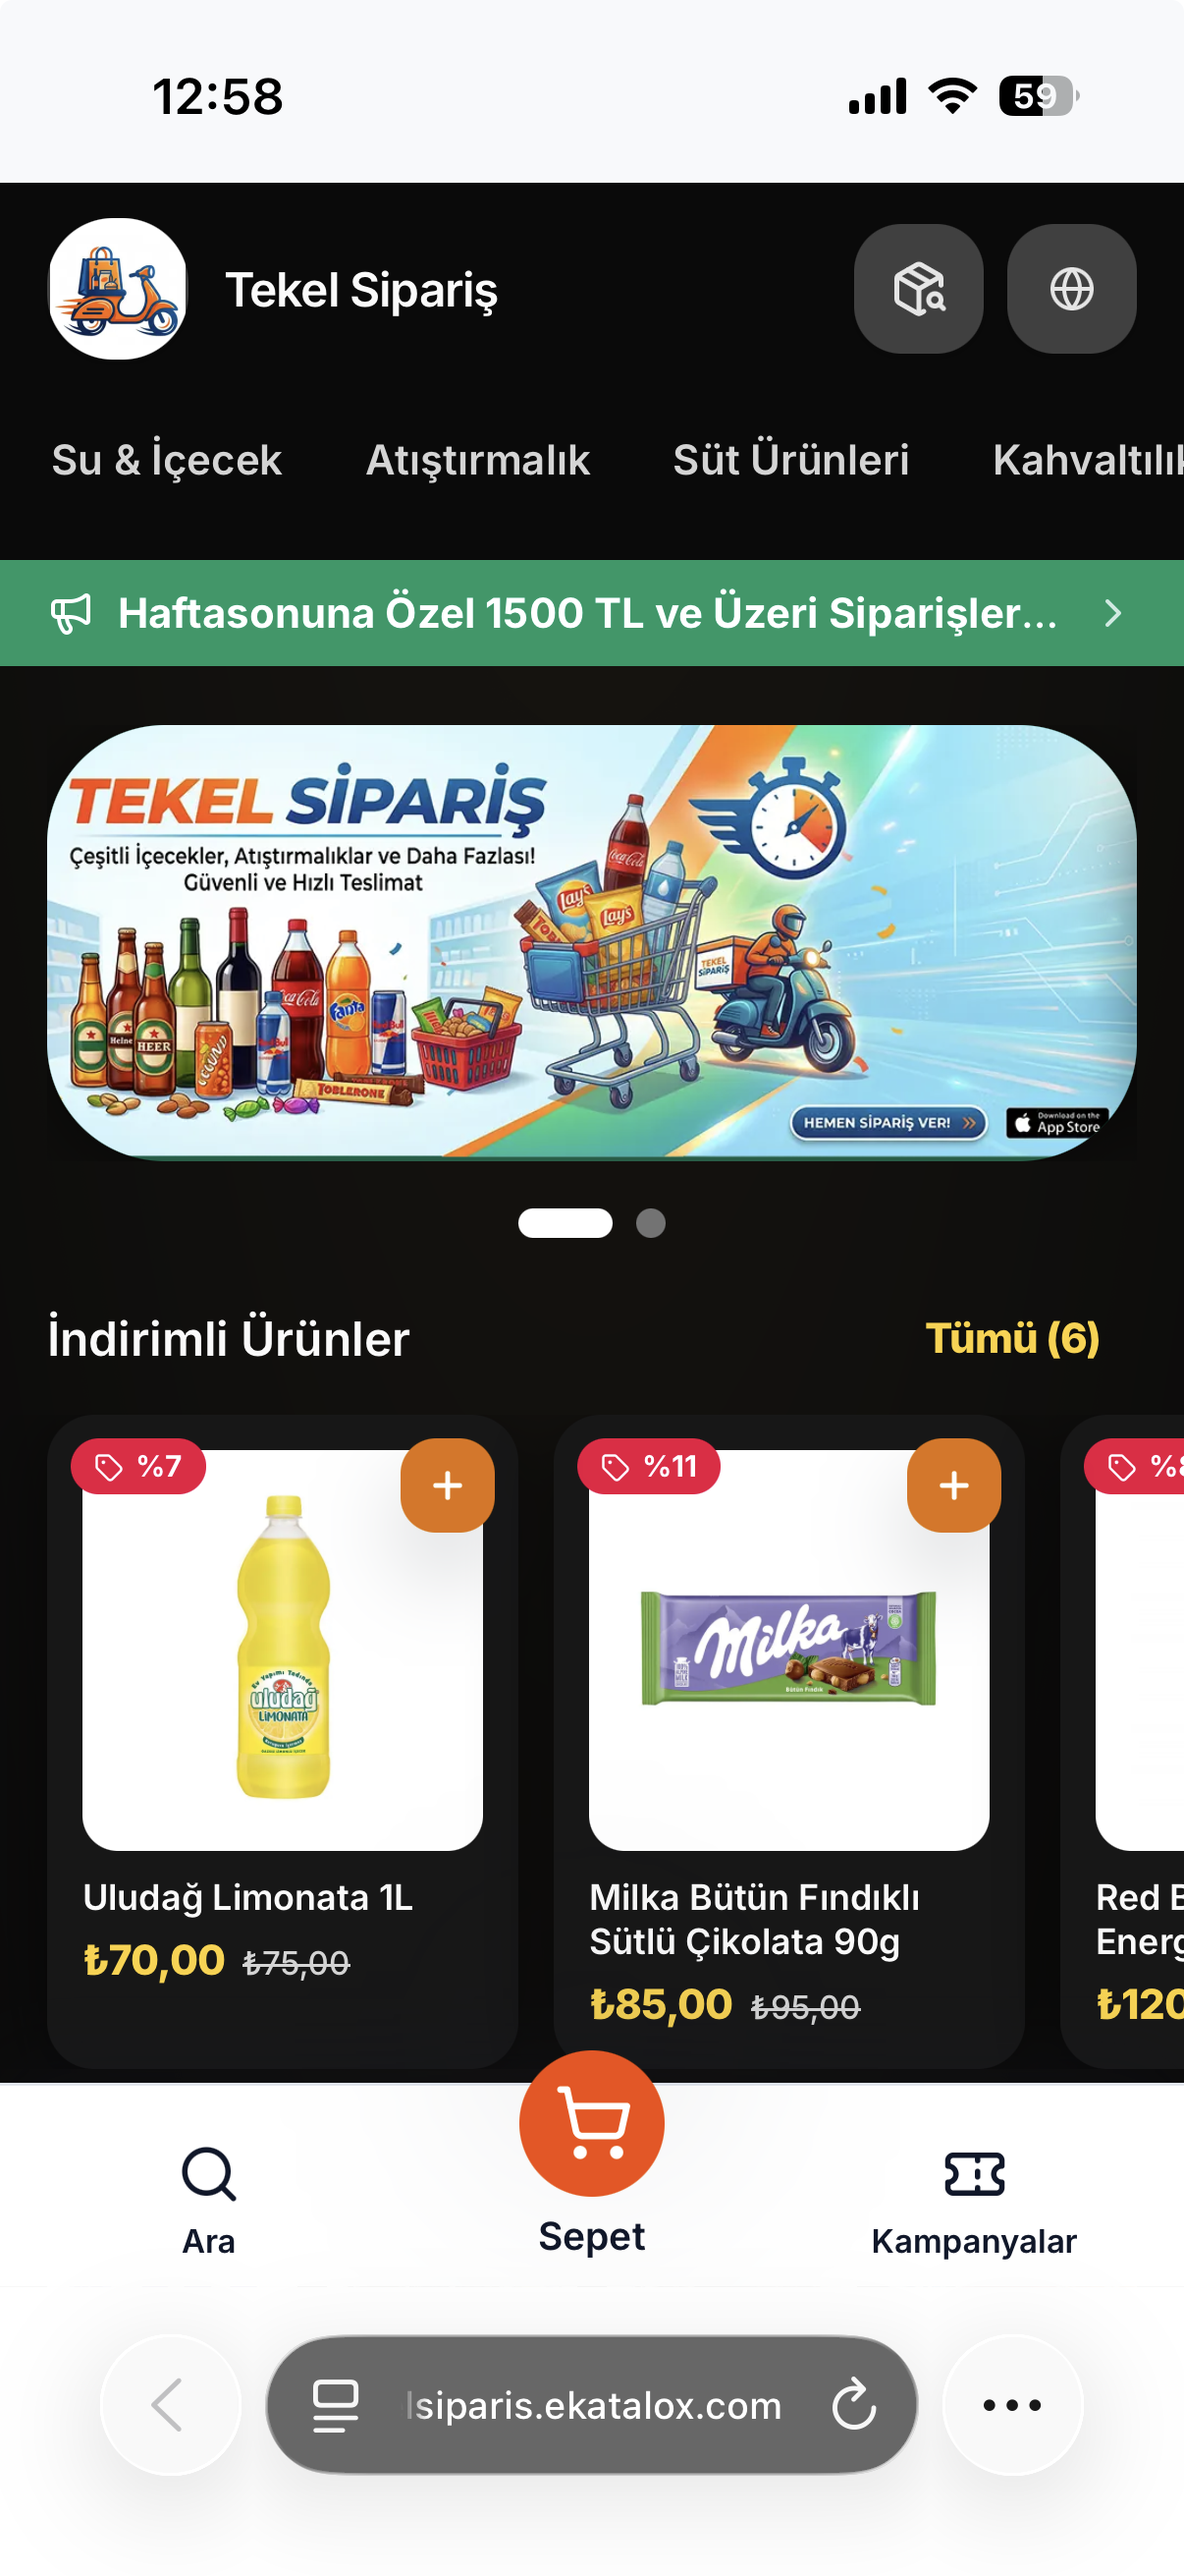
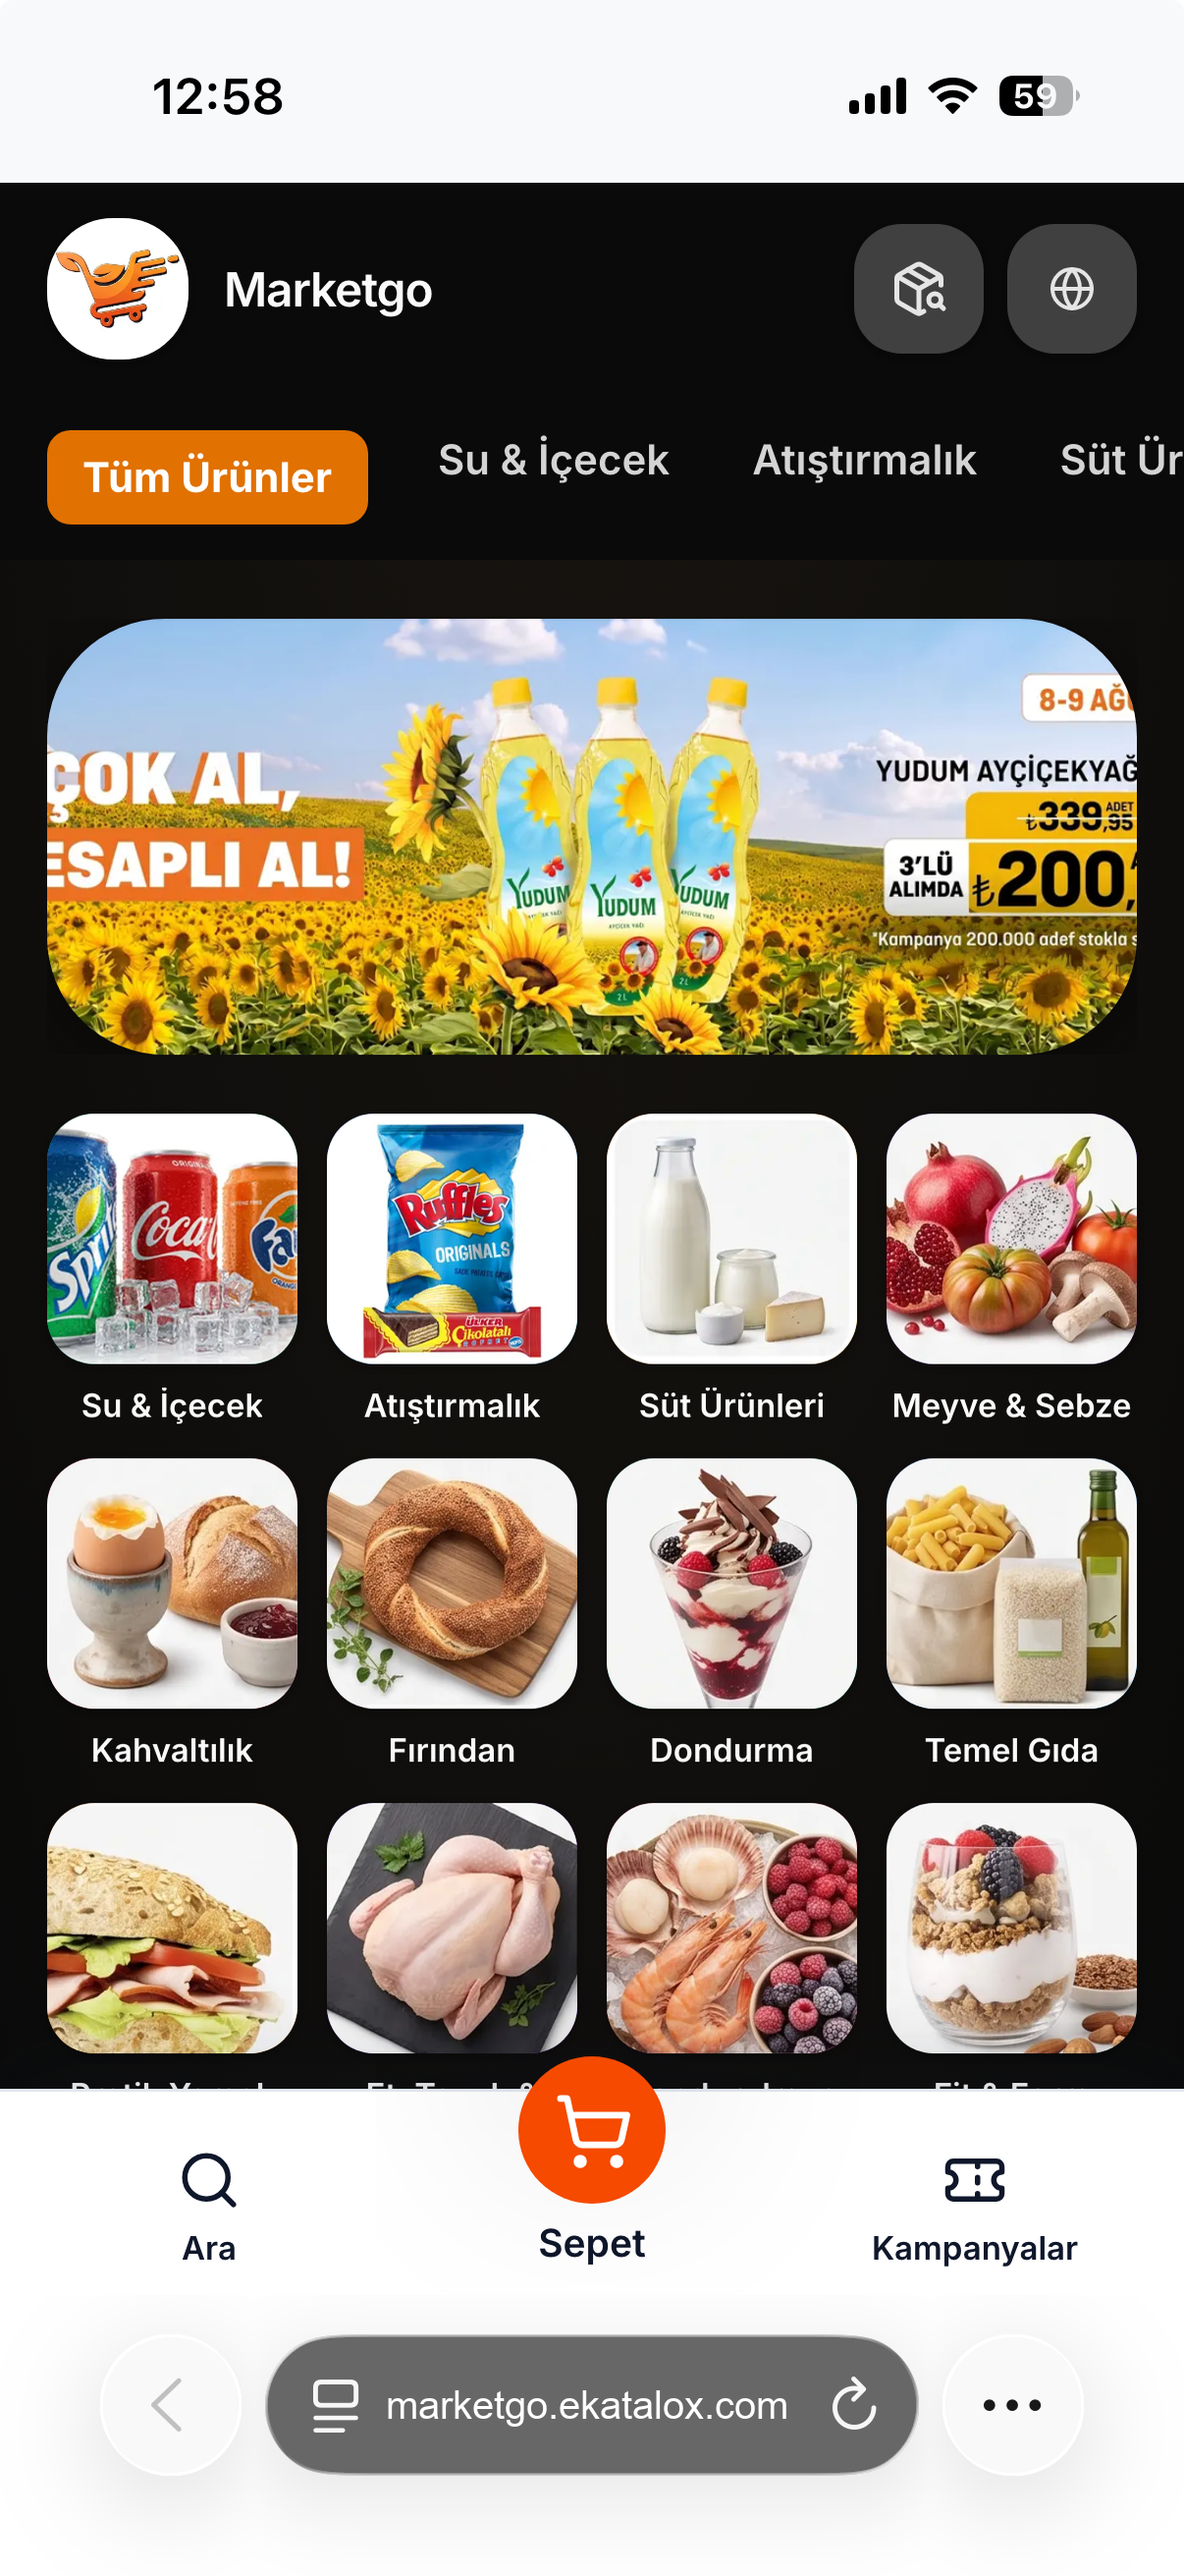
Ana sayfa: hero iPhone görseli ve demo mağaza bağlantısı marketgo'ya alındı
- public/site/demo-market-iphone.png: tekelsiparis yerine marketgo.ekatalox.com
  ana sayfasının iPhone ekran görüntüsü (durum ve Safari çubukları korundu)
- lib/marketing/site.ts: demoUrl -> https://marketgo.ekatalox.com
  ("Demo mağazayı aç" düğmeleri bu sabiti kullanıyor)

Claude-Session: https://claude.ai/code/session_01DKMovxUk6WPPgHxMJx2fkn

diff --git a/lib/marketing/site.ts b/lib/marketing/site.ts
@@ -6,7 +6,7 @@ export const SITE = {
   name: "eKatalox",
   domain: "ekatalox.com",
   url: "https://www.ekatalox.com",
-  demoUrl: "https://tekelsiparis.ekatalox.com",
+  demoUrl: "https://marketgo.ekatalox.com",
   phone: "+90 535 417 25 10",
   phoneHref: "tel:+905354172510",
   whatsappHref: "https://wa.me/905354172510",
